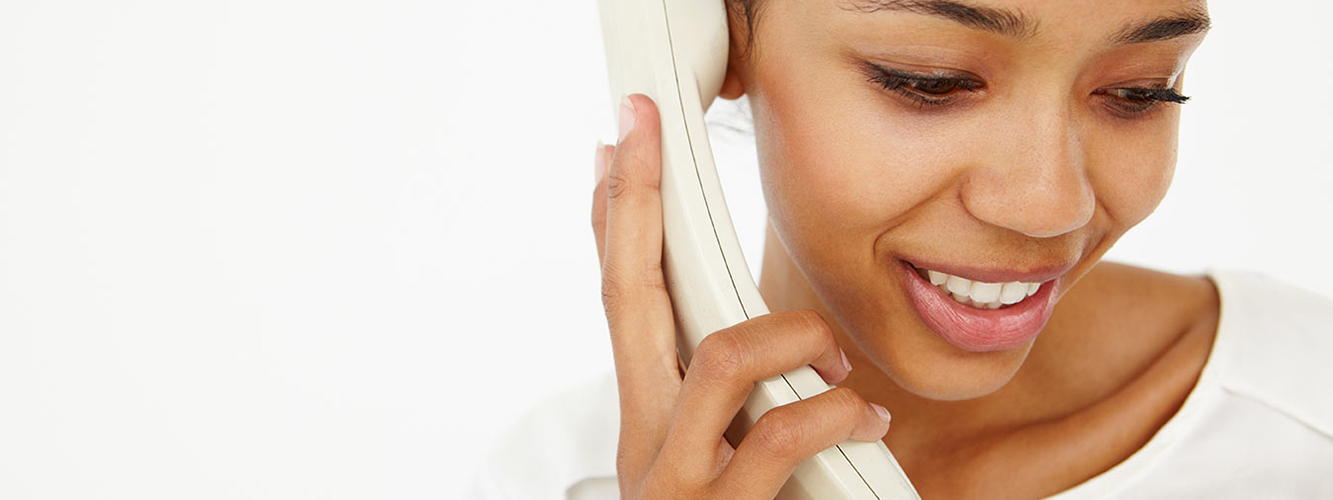
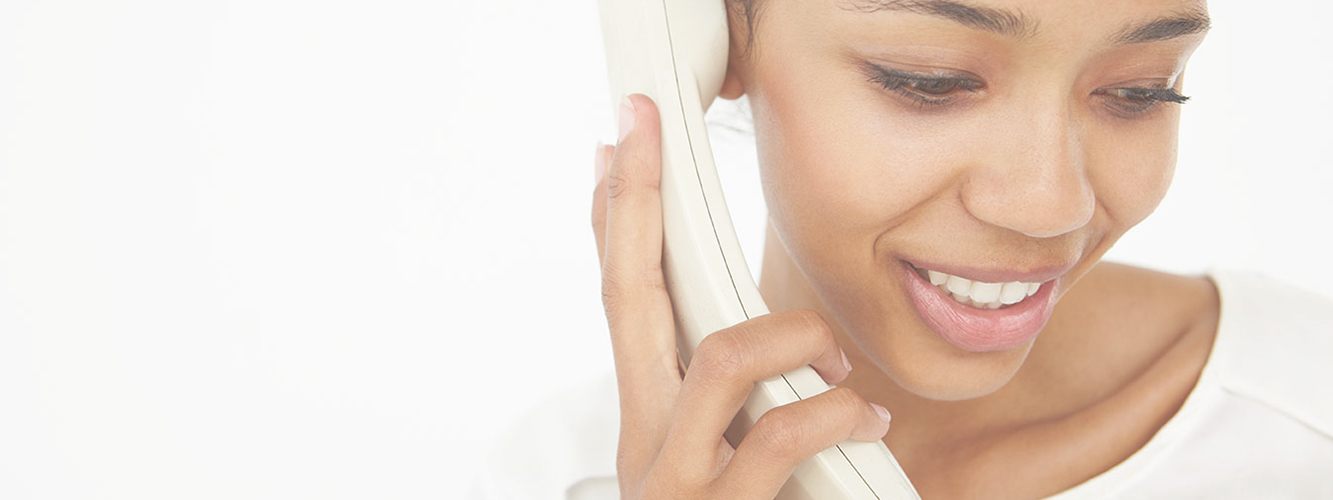
pushone

diff --git a/pages/smartphone_e_telefoni.html b/pages/smartphone_e_telefoni.html
@@ -26,59 +26,78 @@
             <div id="content">
                 <div id="categoria"><h2>Smartphone e Telefoni</h2></div>
                 
-                <h3>Smartphone</h3>
+                 <ol class="breadcrumb">
+                    <li><a href="../pages/prodotti.html">Prodotti</a></li>
+                    <li class="active">Smartphone e telefoni</li>
+                </ol>
+                
+                <div class="titolo_categoria">
+                    <h2>SMARTPHONE E TELEFONI</h2>
+                     <p>Acquista smartphone, telefoni di casa e cellulari online<br>con TIM: per te un'ampia selezione dei device più innovativi e la <br>consegna è sempre gratuita!</p>
+                </div>
+                
                 <div class="contenitore_promozioni">
                     <a href="#"><div class="contenitore_singolo">
-                        <div class="contenuto"><img src="../images/promozioni/s7edge.png"></div>
+                        <div class="contenuto"><img src="../images/prodotti/smartphone_e_telefoni/s7edge.png"></div>
                         <div class="contenuto">
                             <h5>Samsung</h5>
-                            <h4>S7 Edge</h4><br>
-                            <div class="button"><p>Scopri</p></div>
+                            <h4>S7 Edge</h4>
+                            <p class="prezzo">759,90 €</p>
+                            <div class="button"><p>Dettagli</p></div>
                         </div>
                         </div></a>
                     <a href="#"><div class="contenitore_singolo">
-                        <div class="contenuto"><img src="../images/promozioni/iphone_5s.png"></div>
+                        <div class="contenuto"><img src="../images/prodotti/smartphone_e_telefoni/iphone_5s.png"></div>
                         <div class="contenuto">
                             <h5>Apple</h5>
-                           <h4>iPhone 5s</h4><br>
-                           <div class="button"><p>Scopri</p></div>
+                           <h4>iPhone 5s</h4>
+                            <p class="prezzo">429,90 €</p>
+                           <div class="button"><p>Dettagli</p></div>
                         </div>
                     </div></a>
                     <a href="#"><a href="#"><div class="contenitore_singolo">
-                        <div class="contenuto"><img src="../images/promozioni/lg_g4.png"></div>
+                        <div class="contenuto"><img src="../images/prodotti/smartphone_e_telefoni/lg_g4.png"></div>
                         <div class="contenuto">
                             <h5>LG</h5>
-                            <h4>G4</h4><br>
-                            <div class="button"><p>Scopri</p></div>
+                            <h4>G4</h4>
+                            <p class="prezzo">349,90 €</p>
+                            <div class="button"><p>Dettagli</p></div>
                         </div>
                     </div></a>
                     <a href="#"><div class="contenitore_singolo">
-                        <div class="contenuto"><img src="../images/promozioni/ipad_pro.png"></div>
+                        <div class="contenuto"><img src="../images/prodotti/smartphone_e_telefoni/xperia_x.png"></div>
                         <div class="contenuto">
-                            <h5>Apple</h5>
-                            <h4>iPad Pro</h4><br>
-                            <div class="button"><p>Scopri</p></div>
+                            <h5>Sony</h5>
+                            <h4>XPERIA X</h4><br>
+                            <p class="prezzo">629,90 €</p>
+                            <div class="button"><p>Dettagli</p></div>
                         </div>
                     </div></a>
                     <a href="#"><div class="contenitore_singolo">
-                        <div class="contenuto"><img src="../images/promozioni/ipad_mini.png"></div>
+                        <div class="contenuto"><img src="../images/prodotti/smartphone_e_telefoni/wiko_rainlite.jpg"></div>
                         <div class="contenuto">
-                            <h5>Apple</h5>
-                            <h4>iPad Mini</h4>
-                            <p><del>599,90 €</del></p>
-                            <p class="prezzo">529,90 €</p>
+                            <h5>Wiko</h5>
+                            <h4>Rainlite</h4>
+                            <p class="prezzo">119,90 €</p>
+                            <div class="button"><p>Dettagli</p></div>
                         </div>
                     </div></a>
                     <a href="#"><div class="contenitore_singolo">
-                        <div class="contenuto"><img src="../images/promozioni/samsung_galaxy_tab_a.png"></div>
+                        <div class="contenuto"><img src="../images/prodotti/smartphone_e_telefoni/huawei_p9.png"></div>
                         <div class="contenuto">
-                            <h5>Samsung</h5>
-                            <h4>Galaxy Tab A</h4><br>
-                            <div class="button"><p>Scopri</p></div>
+                            <h5>Huawei</h5>
+                            <h4>P9</h4><br>
+                            <p class="prezzo">599,90 €</p>
+                            <div class="button"><p>Dettagli</p></div>
                         </div>
                     </div></a>
                 </div>
-                                
+                <nav>
+                    <ul class="pager">
+                        <li class="pager-next disabled"><a href="#">Previous</a></li>
+                        <li><a href="#"><del>Next</del></a></li>
+                    </ul>
+                </nav>                
                                
             </div>
             <div id="footer"></div>

diff --git a/pages/promozioni.html b/pages/promozioni.html
@@ -29,7 +29,7 @@
                 <h3>Prodotti in Promozione</h3>
                 <div class="contenitore_promozioni">
                     <a href="#"><div class="contenitore_singolo">
-                        <div class="contenuto"><img src="../images/promozioni/s7edge.png"></div>
+                        <div class="contenuto"><img src="../images/prodotti/smartphone_e_telefoni/s7edge.png"></div>
                         <div class="contenuto">
                             <h5>Samsung</h5>
                             <h4>S7 Edge</h4>
@@ -38,7 +38,7 @@
                         </div>
                         </div></a>
                     <a href="#"><div class="contenitore_singolo">
-                        <div class="contenuto"><img src="../images/promozioni/iphone_5s.png"></div>
+                        <div class="contenuto"><img src="../images/prodotti/smartphone_e_telefoni/iphone_5s.png"></div>
                         <div class="contenuto">
                             <h5>Apple</h5>
                            <h4>iPhone 5s</h4>
@@ -47,7 +47,7 @@
                         </div>
                     </div></a>
                     <a href="#"><a href="#"><div class="contenitore_singolo">
-                        <div class="contenuto"><img src="../images/promozioni/lg_g4.png"></div>
+                        <div class="contenuto"><img src="../images/prodotti/smartphone_e_telefoni/lg_g4.png"></div>
                         <div class="contenuto">
                             <h5>LG</h5>
                             <h4>G4</h4>
@@ -56,7 +56,7 @@
                         </div>
                     </div></a>
                     <a href="#"><div class="contenitore_singolo">
-                        <div class="contenuto"><img src="../images/promozioni/ipad_pro.png"></div>
+                        <div class="contenuto"><img src="../images/prodotti/tablet_e_computer/ipad_pro.png"></div>
                         <div class="contenuto">
                             <h5>Apple</h5>
                             <h4>iPad Pro</h4>
@@ -65,7 +65,7 @@
                         </div>
                     </div></a>
                     <a href="#"><div class="contenitore_singolo">
-                        <div class="contenuto"><img src="../images/promozioni/ipad_mini.png"></div>
+                        <div class="contenuto"><img src="../images/prodotti/tablet_e_computer/ipad_mini.png"></div>
                         <div class="contenuto">
                             <h5>Apple</h5>
                             <h4>iPad Mini</h4>
@@ -74,7 +74,7 @@
                         </div>
                     </div></a>
                     <a href="#"><div class="contenitore_singolo">
-                        <div class="contenuto"><img src="../images/promozioni/samsung_galaxy_tab_a.png"></div>
+                        <div class="contenuto"><img src="../images/prodotti/tablet_e_computer/samsung_galaxy_tab_a.png"></div>
                         <div class="contenuto">
                             <h5>Samsung</h5>
                             <h4>Galaxy Tab A</h4>

diff --git a/stylesheets/smartphone_e_telefoni.css b/stylesheets/smartphone_e_telefoni.css
@@ -24,9 +24,35 @@
     text-decoration: none;
 }
 
-#banda{
+.titolo_categoria{
+    width: 100%;
+    height: 30vw;
+    margin-bottom: 1vw;
     background-image: url(../images/prodotti/smartphone.jpg);
     background-size: cover;
+}
+
+.titolo_categoria>h2{
+    text-align: center;
+    padding-top: 5vw;
+    vertical-align: middle;
+    font-weight: bold;
+    color: #00448F;
+    opacity: 1;
+    filter: alpha(opacity=100); 
+    font-size: 3vw;
+}
+
+.titolo_categoria>p{
+    text-align: center;
+    font-weight: bold;
+    color: #00448F;
+    font-size: 2vw;
+}
+
+
+#banda{
+    
 }
 
 h3 {

diff --git a/stylesheets/casa_e_famiglia.css b/stylesheets/casa_e_famiglia.css
@@ -12,8 +12,6 @@
 .categoria_casa_e_famiglia_immagine{
     width: 100%;
     height: 30vw;
-    opacity: 0.7;
-    filter: alpha(opacity=70); 
     margin-bottom: 1vw;
 }
 
@@ -88,8 +86,8 @@
 .categoria_casa_e_famiglia:hover,
 .categoria_casa_e_famiglia:focus,
 .categoria_casa_e_famiglia:active{
-    opacity: 0.7;
-    filter: alpha(opacity=70);
+    opacity: 0.8;
+    filter: alpha(opacity=80);
 }
 
 .categoria_casa_e_famiglia>h2{

diff --git a/stylesheets/smartlife.css b/stylesheets/smartlife.css
@@ -27,16 +27,16 @@
 .categoria_smartlife{
     width: 100%;
     height: 30vw;
-    opacity: 0.4;
-    filter: alpha(opacity=40); 
+    opacity: 0.8;
+    filter: alpha(opacity=80); 
     margin-bottom: 1vw;
 }
 
 .categoria_smartlife:hover,
 .categoria_smartlife:focus,
 .categoria_smartlife:active{
-    opacity: 0.7;
-    filter: alpha(opacity=70);
+    opacity: 1;
+    filter: alpha(opacity=1);
 }
 
 .categoria_smartlife>h2{

diff --git a/stylesheets/prodotti.css b/stylesheets/prodotti.css
@@ -27,16 +27,16 @@
 .categoria_prodotti{
     width: 100%;
     height: 30vw;
-    opacity: 0.4;
-    filter: alpha(opacity=40); 
+    opacity: 0.8;
+    filter: alpha(opacity=80); 
     margin-bottom: 1vw;
 }
 
 .categoria_prodotti:hover,
 .categoria_home:focus,
 .categoria_home:active{
-    opacity: 0.7;
-    filter: alpha(opacity=70);
+    opacity: 1;
+    filter: alpha(opacity=100);
 }
 
 .categoria_prodotti>h2{

diff --git a/stylesheets/index.css b/stylesheets/index.css
@@ -1,16 +1,16 @@
 .categoria_home{
     width: 100%;
     height: 18vw;
-    opacity: 0.4;
-    filter: alpha(opacity=40); 
+    opacity: 0.8;
+    filter: alpha(opacity=80); 
     margin-bottom: 1vw;
 }
 
 .categoria_home:hover,
 .categoria_home:focus,
 .categoria_home:active{
-    opacity: 0.7;
-    filter: alpha(opacity=70);     
+    opacity: 1;
+    filter: alpha(opacity=100);     
 }
 
 .categoria_home>h2{
